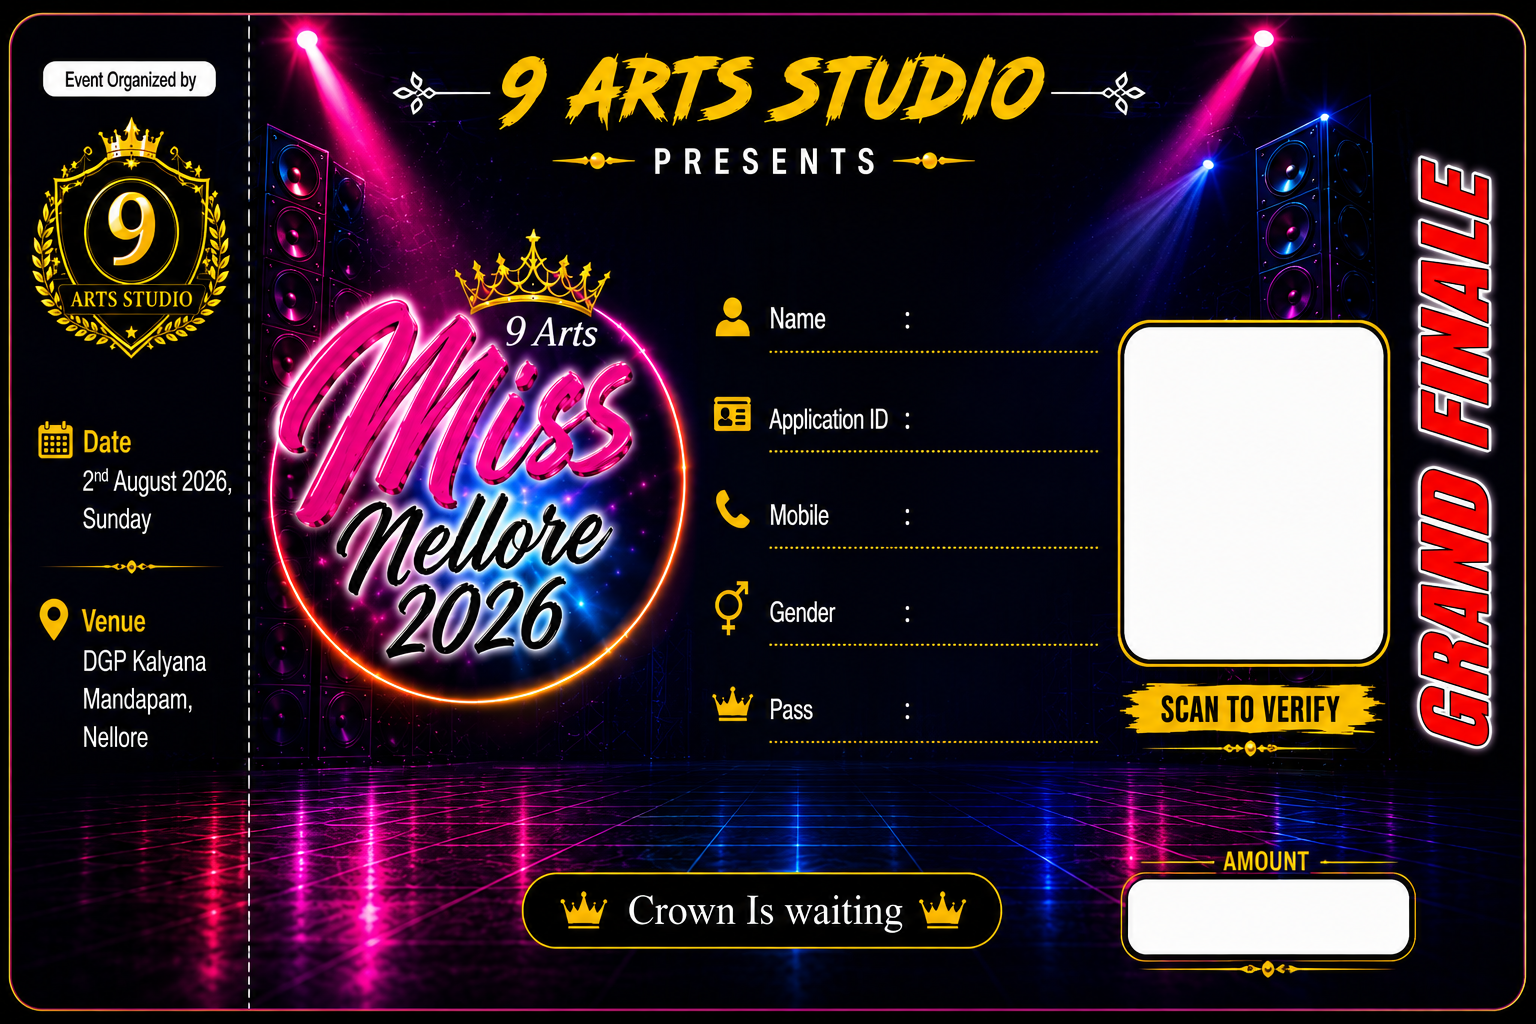
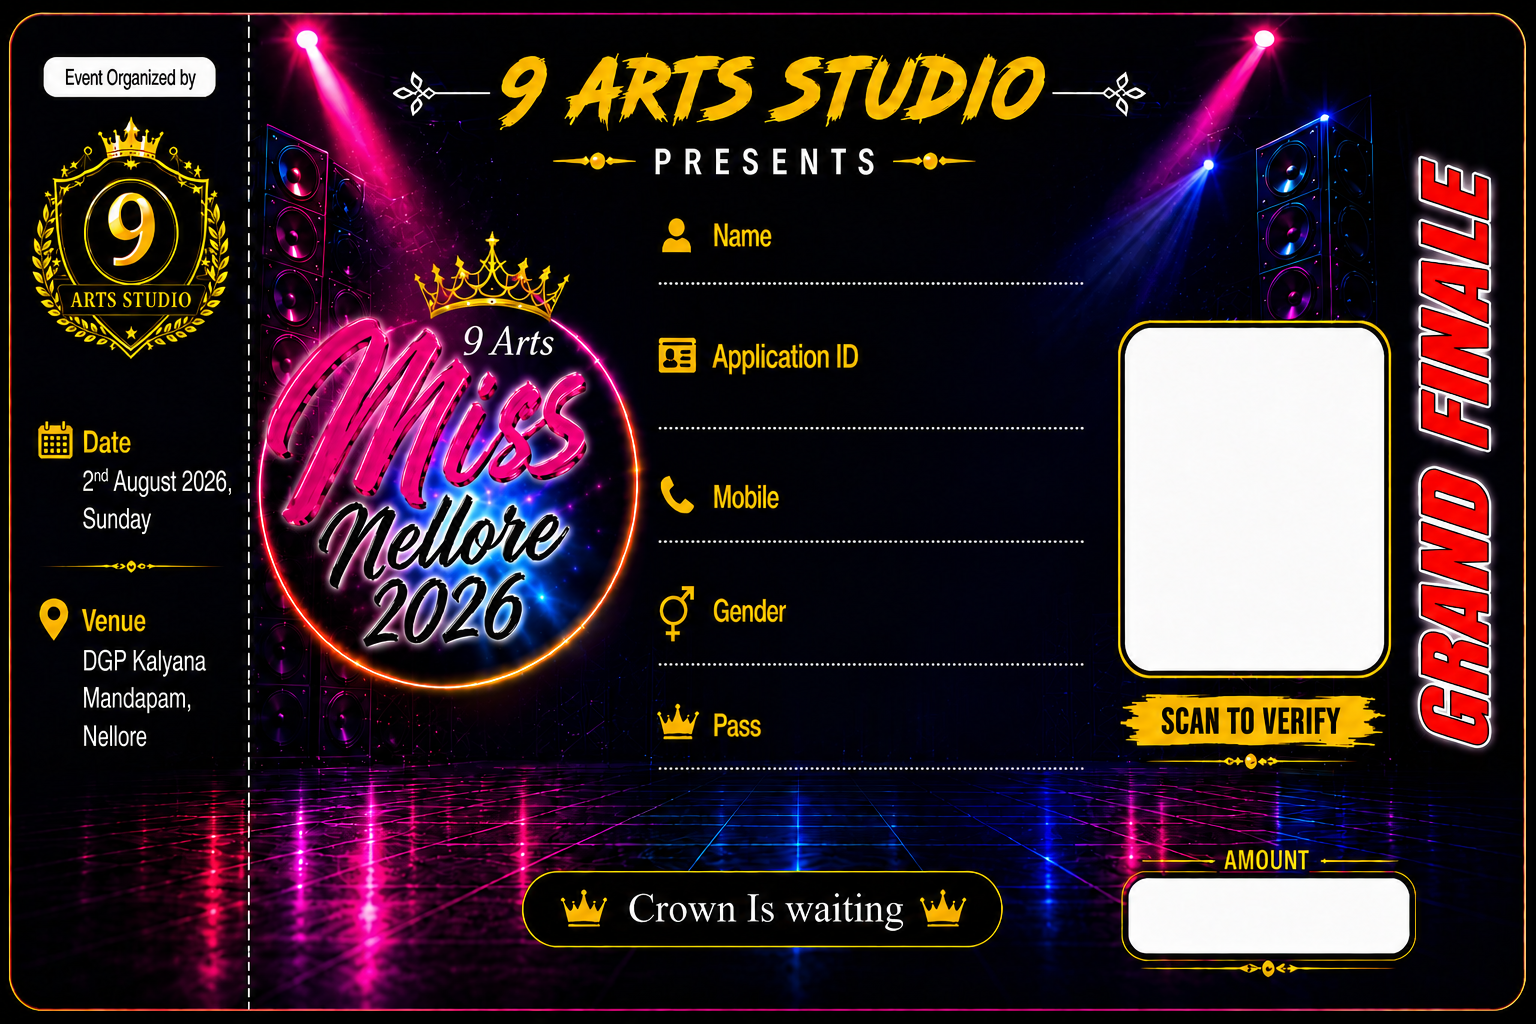
update template + re-measure all overlay positions
New template measurements (1536x1024):
- QR white box: top 32%, left 73.2%, width 23.8%, height 33%
- Amount box: top 86%, left 74.2%
- Label rows: 27.5%, 34.2%, 41.7%, 47.4%, 52.7%
- Data values: left 57%, maxWidth 15%, wrap on 2 lines
- Smaller fonts so full name and app ID always visible

diff --git a/app/my-pass/page.tsx b/app/my-pass/page.tsx
@@ -113,57 +113,57 @@ export default async function MyPassPage() {
               {/* eslint-disable-next-line @next/next/no-img-element */}
               <img src="/ticket-template.png" alt="ticket" className="absolute inset-0 w-full h-full object-fill" />
 
-              {/* QR code — centered inside white box: top 32%, left 75%, width 16% */}
+              {/* QR code — measured: top 32%, left 73.2%, width 23.8%, height 33% */}
               <div className="absolute flex items-center justify-center"
-                style={{ top: '32%', left: '75%', width: '16%', height: '32%' }}>
-                <div className="bg-white p-[2%] w-[90%] h-[90%] flex items-center justify-center">
+                style={{ top: '32%', left: '73.2%', width: '23.8%', height: '33%' }}>
+                <div className="bg-white w-[88%] h-[88%] flex items-center justify-center p-[2%]">
                   {/* eslint-disable-next-line @next/next/no-img-element */}
                   <img src={pass.qr_data_url} alt="QR" className="w-full h-full object-contain" />
                 </div>
               </div>
 
-              {/* Name — row 1, allow 2 lines */}
+              {/* Name — row y=27.5% */}
               <div className="absolute text-white font-bold leading-tight"
-                style={{ top: '26%', left: '57%', maxWidth: '16%', fontSize: 'clamp(5px,0.9vw,13px)', wordBreak: 'break-word', lineHeight: 1.3 }}>
+                style={{ top: '25.5%', left: '57%', maxWidth: '15%', fontSize: 'clamp(5px,0.85vw,12px)', wordBreak: 'break-word', lineHeight: 1.25 }}>
                 {pass.full_name}
               </div>
 
-              {/* Application ID — row 2, allow 2 lines */}
+              {/* Application ID — row y=34.2% */}
               <div className="absolute text-yellow-300 font-mono font-bold leading-tight"
-                style={{ top: '35%', left: '57%', maxWidth: '16%', fontSize: 'clamp(4px,0.75vw,11px)', wordBreak: 'break-all', lineHeight: 1.3 }}>
+                style={{ top: '32.5%', left: '57%', maxWidth: '15%', fontSize: 'clamp(4px,0.7vw,10px)', wordBreak: 'break-all', lineHeight: 1.25 }}>
                 {pass.application_id}
               </div>
 
-              {/* Mobile — row 3 */}
+              {/* Mobile — row y=41.7% */}
               <div className="absolute text-white font-semibold"
-                style={{ top: '48%', left: '57%', maxWidth: '16%', fontSize: 'clamp(5px,0.95vw,14px)', whiteSpace: 'nowrap' }}>
+                style={{ top: '40%', left: '57%', maxWidth: '15%', fontSize: 'clamp(5px,0.85vw,12px)', whiteSpace: 'nowrap' }}>
                 {reg?.mobile ?? '—'}
               </div>
 
-              {/* Gender — row 4 */}
+              {/* Gender — row y=47.4% */}
               <div className="absolute text-white font-semibold"
-                style={{ top: '56%', left: '57%', maxWidth: '16%', fontSize: 'clamp(5px,0.95vw,14px)' }}>
+                style={{ top: '46%', left: '57%', maxWidth: '15%', fontSize: 'clamp(5px,0.85vw,12px)' }}>
                 {reg?.gender === 'male' ? 'Male' : reg?.gender === 'female' ? 'Female' : reg?.gender === 'other' ? 'Other' : '—'}
               </div>
 
-              {/* Pass — row 5 */}
+              {/* Pass — row y=52.7% */}
               <div className="absolute text-yellow-400 font-bold"
-                style={{ top: '65%', left: '57%', maxWidth: '16%', fontSize: 'clamp(5px,0.95vw,14px)' }}>
+                style={{ top: '51.5%', left: '57%', maxWidth: '15%', fontSize: 'clamp(5px,0.85vw,12px)' }}>
                 {tierInfo.label}
               </div>
 
               {/* Ticket No + Table No */}
               {(pass.ticket_no || pass.table_number) && (
                 <div className="absolute flex gap-1"
-                  style={{ top: '72%', left: '57%', fontSize: 'clamp(4px,0.8vw,11px)' }}>
+                  style={{ top: '58%', left: '57%', fontSize: 'clamp(4px,0.75vw,10px)' }}>
                   {pass.ticket_no && <span className="text-green-300 font-mono font-bold">#{String(pass.ticket_no)}</span>}
                   {pass.table_number && <span className="text-blue-300 font-bold">Table {String(pass.table_number)}</span>}
                 </div>
               )}
 
-              {/* Amount */}
+              {/* Amount — measured: top 86%, left 74.2% */}
               <div className="absolute text-black font-black"
-                style={{ top: '86%', left: '75.5%', fontSize: 'clamp(7px,1.5vw,22px)' }}>
+                style={{ top: '86%', left: '74.5%', fontSize: 'clamp(7px,1.5vw,22px)' }}>
                 ₹{payment?.amount ?? tierInfo.price}
               </div>
             </div>
